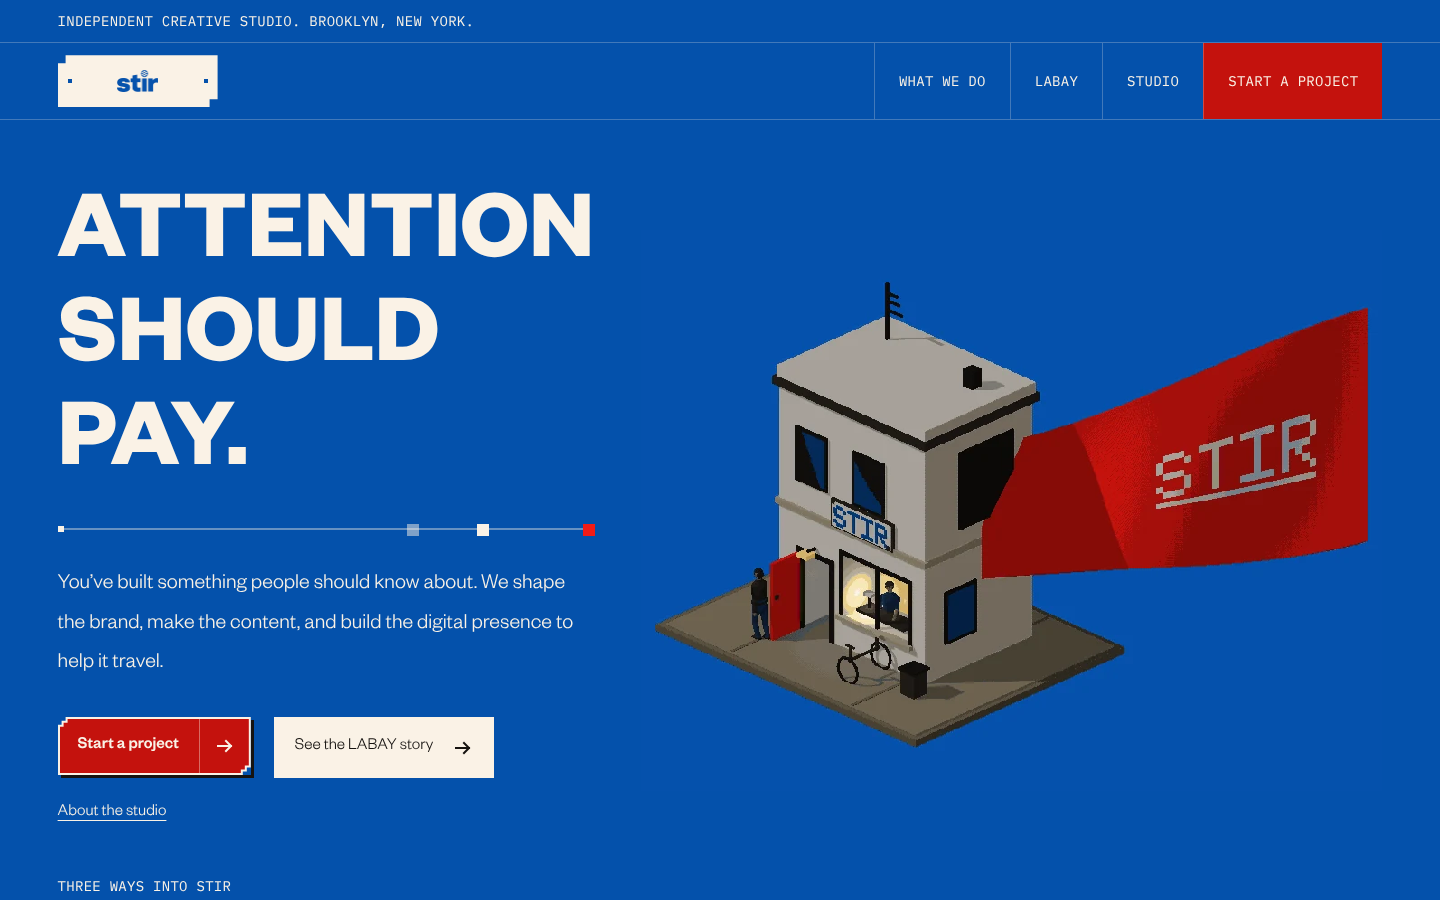
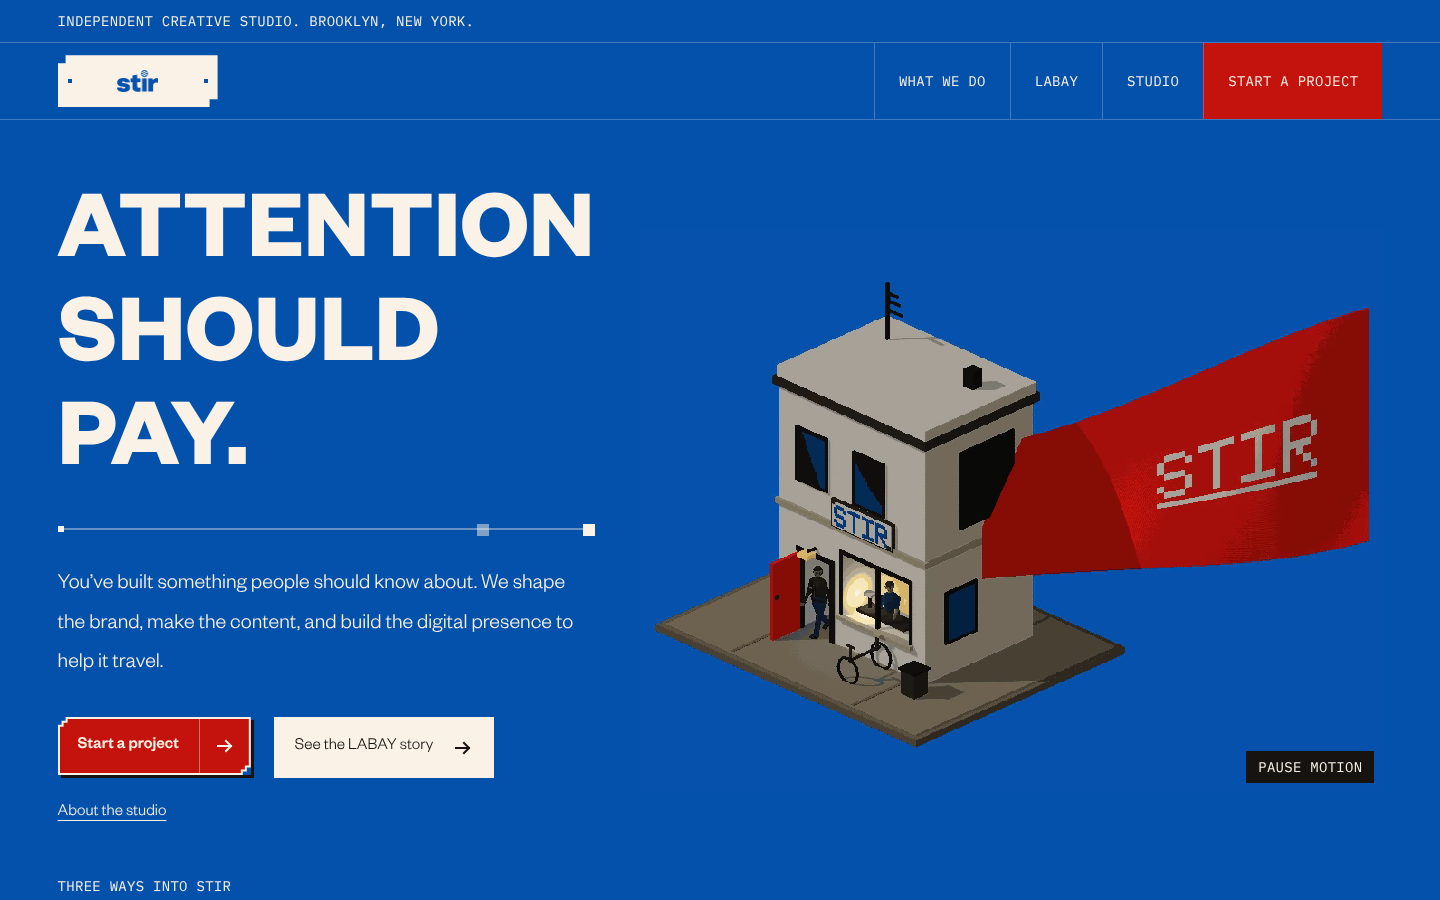
Fix the static hero on Squarespace: the loop's path was relative
The hero loop never played on Squarespace. The footer script picked its
source with a relative path:

    var base = 'assets/scene/hero-' + (narrow ? 'phone' : 'desk');

On the standalone site the assets sit beside the page, so that is
right. Pasted into someone else's document it resolves against THAT
origin — <your-squarespace-domain>/assets/scene/hero-desk.webm — which
404s. The script's own error handler then does exactly what it was
written to do: drops the video and the motion button and leaves the
poster. A still hero, no console error, nothing to notice.

The build rewrites the asset base in the markup but pastes stir.js
verbatim, so the path inside the script was never covered. stir.js now
reads window.STIR_ASSETS and falls back to its relative default; the
header injection declares it, and the hostile preview picks it up as
'../assets/' so it still runs with no network.

Reproduced before the fix, in the preview that exists to catch this:
404 /squarespace/assets/scene/hero-desk.webm, video removed from the
DOM. qa/sqsp.mjs never asked whether the hero moved — it checked fonts,
tokens, bullets and overflow and passed while rendering a dead hero. It
now checks that the loop element survives, attaches, offers its motion
control, and that currentTime actually advances.

Both injections change: the header gains STIR_ASSETS, the footer
carries the new script. Re-paste both.

The two interior scenes are unaffected. They ship as <img> and are
[…]

Changed region(s): [[0.75, 0.3422, 0.9688, 0.6533], [0.5, 0.6222, 0.5938, 0.7156], [0.8438, 0.8089, 0.9688, 0.8711]]

diff --git a/squarespace/_preview-page-about.html b/squarespace/_preview-page-about.html
@@ -34,6 +34,13 @@
 <link rel="preconnect" href="https://fonts.gstatic.com" crossorigin>
 <link href="https://fonts.googleapis.com/css2?family=IBM+Plex+Mono:wght@400;500&display=swap" rel="stylesheet">
 <link rel="stylesheet" href="./_preview.css">
+<script>
+  /* Where the footer script should load the hero loop from. Without
+     this it uses its own relative default, which on this host resolves
+     to <your-domain>/assets/... — a 404, after which the hero quietly
+     drops back to the still image and never moves. */
+  window.STIR_ASSETS = '../assets/';
+</script>
 <style>
   /* Carried inline so the cobalt is painted before the stylesheet
      arrives; otherwise the first frame is a white Squarespace page. */
@@ -263,7 +270,15 @@ document.documentElement.classList.add('js');
     /* Matches the <source media> on the still exactly, so the loop and
        the poster are always the same composition. */
     var narrow = matchMedia('(max-width: 767px)');
-    var base = 'assets/scene/hero-' + (narrow.matches ? 'phone' : 'desk');
+    /* Where the assets live. The standalone site serves them beside the
+       page, so the relative default is right there. Anywhere this script
+       is pasted into someone else's document — the Squarespace build —
+       the page is on a different origin and a relative path resolves
+       against THAT host: it 404s, the error handler drops the video and
+       the hero silently falls back to the still. The host says where the
+       assets are by setting window.STIR_ASSETS before this runs. */
+    var root = window.STIR_ASSETS || 'assets/';
+    var base = root + 'scene/hero-' + (narrow.matches ? 'phone' : 'desk');
 
     var v = document.createElement('video');
     v.className = 'stage-loop';

diff --git a/squarespace/_preview-page-businesses.html b/squarespace/_preview-page-businesses.html
@@ -34,6 +34,13 @@
 <link rel="preconnect" href="https://fonts.gstatic.com" crossorigin>
 <link href="https://fonts.googleapis.com/css2?family=IBM+Plex+Mono:wght@400;500&display=swap" rel="stylesheet">
 <link rel="stylesheet" href="./_preview.css">
+<script>
+  /* Where the footer script should load the hero loop from. Without
+     this it uses its own relative default, which on this host resolves
+     to <your-domain>/assets/... — a 404, after which the hero quietly
+     drops back to the still image and never moves. */
+  window.STIR_ASSETS = '../assets/';
+</script>
 <style>
   /* Carried inline so the cobalt is painted before the stylesheet
      arrives; otherwise the first frame is a white Squarespace page. */
@@ -331,7 +338,15 @@ document.documentElement.classList.add('js');
     /* Matches the <source media> on the still exactly, so the loop and
        the poster are always the same composition. */
     var narrow = matchMedia('(max-width: 767px)');
-    var base = 'assets/scene/hero-' + (narrow.matches ? 'phone' : 'desk');
+    /* Where the assets live. The standalone site serves them beside the
+       page, so the relative default is right there. Anywhere this script
+       is pasted into someone else's document — the Squarespace build —
+       the page is on a different origin and a relative path resolves
+       against THAT host: it 404s, the error handler drops the video and
+       the hero silently falls back to the still. The host says where the
+       assets are by setting window.STIR_ASSETS before this runs. */
+    var root = window.STIR_ASSETS || 'assets/';
+    var base = root + 'scene/hero-' + (narrow.matches ? 'phone' : 'desk');
 
     var v = document.createElement('video');
     v.className = 'stage-loop';

diff --git a/squarespace/_preview-page-collaborate.html b/squarespace/_preview-page-collaborate.html
@@ -34,6 +34,13 @@
 <link rel="preconnect" href="https://fonts.gstatic.com" crossorigin>
 <link href="https://fonts.googleapis.com/css2?family=IBM+Plex+Mono:wght@400;500&display=swap" rel="stylesheet">
 <link rel="stylesheet" href="./_preview.css">
+<script>
+  /* Where the footer script should load the hero loop from. Without
+     this it uses its own relative default, which on this host resolves
+     to <your-domain>/assets/... — a 404, after which the hero quietly
+     drops back to the still image and never moves. */
+  window.STIR_ASSETS = '../assets/';
+</script>
 <style>
   /* Carried inline so the cobalt is painted before the stylesheet
      arrives; otherwise the first frame is a white Squarespace page. */
@@ -242,7 +249,15 @@ document.documentElement.classList.add('js');
     /* Matches the <source media> on the still exactly, so the loop and
        the poster are always the same composition. */
     var narrow = matchMedia('(max-width: 767px)');
-    var base = 'assets/scene/hero-' + (narrow.matches ? 'phone' : 'desk');
+    /* Where the assets live. The standalone site serves them beside the
+       page, so the relative default is right there. Anywhere this script
+       is pasted into someone else's document — the Squarespace build —
+       the page is on a different origin and a relative path resolves
+       against THAT host: it 404s, the error handler drops the video and
+       the hero silently falls back to the still. The host says where the
+       assets are by setting window.STIR_ASSETS before this runs. */
+    var root = window.STIR_ASSETS || 'assets/';
+    var base = root + 'scene/hero-' + (narrow.matches ? 'phone' : 'desk');
 
     var v = document.createElement('video');
     v.className = 'stage-loop';

diff --git a/squarespace/_preview-page-contact.html b/squarespace/_preview-page-contact.html
@@ -34,6 +34,13 @@
 <link rel="preconnect" href="https://fonts.gstatic.com" crossorigin>
 <link href="https://fonts.googleapis.com/css2?family=IBM+Plex+Mono:wght@400;500&display=swap" rel="stylesheet">
 <link rel="stylesheet" href="./_preview.css">
+<script>
+  /* Where the footer script should load the hero loop from. Without
+     this it uses its own relative default, which on this host resolves
+     to <your-domain>/assets/... — a 404, after which the hero quietly
+     drops back to the still image and never moves. */
+  window.STIR_ASSETS = '../assets/';
+</script>
 <style>
   /* Carried inline so the cobalt is painted before the stylesheet
      arrives; otherwise the first frame is a white Squarespace page. */
@@ -314,7 +321,15 @@ document.documentElement.classList.add('js');
     /* Matches the <source media> on the still exactly, so the loop and
        the poster are always the same composition. */
     var narrow = matchMedia('(max-width: 767px)');
-    var base = 'assets/scene/hero-' + (narrow.matches ? 'phone' : 'desk');
+    /* Where the assets live. The standalone site serves them beside the
+       page, so the relative default is right there. Anywhere this script
+       is pasted into someone else's document — the Squarespace build —
+       the page is on a different origin and a relative path resolves
+       against THAT host: it 404s, the error handler drops the video and
+       the hero silently falls back to the still. The host says where the
+       assets are by setting window.STIR_ASSETS before this runs. */
+    var root = window.STIR_ASSETS || 'assets/';
+    var base = root + 'scene/hero-' + (narrow.matches ? 'phone' : 'desk');
 
     var v = document.createElement('video');
     v.className = 'stage-loop';

diff --git a/squarespace/_preview-page-creators.html b/squarespace/_preview-page-creators.html
@@ -34,6 +34,13 @@
 <link rel="preconnect" href="https://fonts.gstatic.com" crossorigin>
 <link href="https://fonts.googleapis.com/css2?family=IBM+Plex+Mono:wght@400;500&display=swap" rel="stylesheet">
 <link rel="stylesheet" href="./_preview.css">
+<script>
+  /* Where the footer script should load the hero loop from. Without
+     this it uses its own relative default, which on this host resolves
+     to <your-domain>/assets/... — a 404, after which the hero quietly
+     drops back to the still image and never moves. */
+  window.STIR_ASSETS = '../assets/';
+</script>
 <style>
   /* Carried inline so the cobalt is painted before the stylesheet
      arrives; otherwise the first frame is a white Squarespace page. */
@@ -247,7 +254,15 @@ document.documentElement.classList.add('js');
     /* Matches the <source media> on the still exactly, so the loop and
        the poster are always the same composition. */
     var narrow = matchMedia('(max-width: 767px)');
-    var base = 'assets/scene/hero-' + (narrow.matches ? 'phone' : 'desk');
+    /* Where the assets live. The standalone site serves them beside the
+       page, so the relative default is right there. Anywhere this script
+       is pasted into someone else's document — the Squarespace build —
+       the page is on a different origin and a relative path resolves
+       against THAT host: it 404s, the error handler drops the video and
+       the hero silently falls back to the still. The host says where the
+       assets are by setting window.STIR_ASSETS before this runs. */
+    var root = window.STIR_ASSETS || 'assets/';
+    var base = root + 'scene/hero-' + (narrow.matches ? 'phone' : 'desk');
 
     var v = document.createElement('video');
     v.className = 'stage-loop';

diff --git a/squarespace/_preview-page-labay.html b/squarespace/_preview-page-labay.html
@@ -34,6 +34,13 @@
 <link rel="preconnect" href="https://fonts.gstatic.com" crossorigin>
 <link href="https://fonts.googleapis.com/css2?family=IBM+Plex+Mono:wght@400;500&display=swap" rel="stylesheet">
 <link rel="stylesheet" href="./_preview.css">
+<script>
+  /* Where the footer script should load the hero loop from. Without
+     this it uses its own relative default, which on this host resolves
+     to <your-domain>/assets/... — a 404, after which the hero quietly
+     drops back to the still image and never moves. */
+  window.STIR_ASSETS = '../assets/';
+</script>
 <style>
   /* Carried inline so the cobalt is painted before the stylesheet
      arrives; otherwise the first frame is a white Squarespace page. */
@@ -433,7 +440,15 @@ document.documentElement.classList.add('js');
     /* Matches the <source media> on the still exactly, so the loop and
        the poster are always the same composition. */
     var narrow = matchMedia('(max-width: 767px)');
-    var base = 'assets/scene/hero-' + (narrow.matches ? 'phone' : 'desk');
+    /* Where the assets live. The standalone site serves them beside the
+       page, so the relative default is right there. Anywhere this script
+       is pasted into someone else's document — the Squarespace build —
+       the page is on a different origin and a relative path resolves
+       against THAT host: it 404s, the error handler drops the video and
+       the hero silently falls back to the still. The host says where the
+       assets are by setting window.STIR_ASSETS before this runs. */
+    var root = window.STIR_ASSETS || 'assets/';
+    var base = root + 'scene/hero-' + (narrow.matches ? 'phone' : 'desk');
 
     var v = document.createElement('video');
     v.className = 'stage-loop';

diff --git a/squarespace/_preview.html b/squarespace/_preview.html
@@ -34,6 +34,13 @@
 <link rel="preconnect" href="https://fonts.gstatic.com" crossorigin>
 <link href="https://fonts.googleapis.com/css2?family=IBM+Plex+Mono:wght@400;500&display=swap" rel="stylesheet">
 <link rel="stylesheet" href="./_preview.css">
+<script>
+  /* Where the footer script should load the hero loop from. Without
+     this it uses its own relative default, which on this host resolves
+     to <your-domain>/assets/... — a 404, after which the hero quietly
+     drops back to the still image and never moves. */
+  window.STIR_ASSETS = '../assets/';
+</script>
 <style>
   /* Carried inline so the cobalt is painted before the stylesheet
      arrives; otherwise the first frame is a white Squarespace page. */
@@ -560,7 +567,15 @@ document.documentElement.classList.add('js');
     /* Matches the <source media> on the still exactly, so the loop and
        the poster are always the same composition. */
     var narrow = matchMedia('(max-width: 767px)');
-    var base = 'assets/scene/hero-' + (narrow.matches ? 'phone' : 'desk');
+    /* Where the assets live. The standalone site serves them beside the
+       page, so the relative default is right there. Anywhere this script
+       is pasted into someone else's document — the Squarespace build —
+       the page is on a different origin and a relative path resolves
+       against THAT host: it 404s, the error handler drops the video and
+       the hero silently falls back to the still. The host says where the
+       assets are by setting window.STIR_ASSETS before this runs. */
+    var root = window.STIR_ASSETS || 'assets/';
+    var base = root + 'scene/hero-' + (narrow.matches ? 'phone' : 'desk');
 
     var v = document.createElement('video');
     v.className = 'stage-loop';

diff --git a/squarespace/ready/02-code-injection-footer.html b/squarespace/ready/02-code-injection-footer.html
@@ -102,7 +102,15 @@ document.documentElement.classList.add('js');
     /* Matches the <source media> on the still exactly, so the loop and
        the poster are always the same composition. */
     var narrow = matchMedia('(max-width: 767px)');
-    var base = 'assets/scene/hero-' + (narrow.matches ? 'phone' : 'desk');
+    /* Where the assets live. The standalone site serves them beside the
+       page, so the relative default is right there. Anywhere this script
+       is pasted into someone else's document — the Squarespace build —
+       the page is on a different origin and a relative path resolves
+       against THAT host: it 404s, the error handler drops the video and
+       the hero silently falls back to the still. The host says where the
+       assets are by setting window.STIR_ASSETS before this runs. */
+    var root = window.STIR_ASSETS || 'assets/';
+    var base = root + 'scene/hero-' + (narrow.matches ? 'phone' : 'desk');
 
     var v = document.createElement('video');
     v.className = 'stage-loop';

diff --git a/assets/stir.js b/assets/stir.js
@@ -99,7 +99,15 @@ document.documentElement.classList.add('js');
     /* Matches the <source media> on the still exactly, so the loop and
        the poster are always the same composition. */
     var narrow = matchMedia('(max-width: 767px)');
-    var base = 'assets/scene/hero-' + (narrow.matches ? 'phone' : 'desk');
+    /* Where the assets live. The standalone site serves them beside the
+       page, so the relative default is right there. Anywhere this script
+       is pasted into someone else's document — the Squarespace build —
+       the page is on a different origin and a relative path resolves
+       against THAT host: it 404s, the error handler drops the video and
+       the hero silently falls back to the still. The host says where the
+       assets are by setting window.STIR_ASSETS before this runs. */
+    var root = window.STIR_ASSETS || 'assets/';
+    var base = root + 'scene/hero-' + (narrow.matches ? 'phone' : 'desk');
 
     var v = document.createElement('video');
     v.className = 'stage-loop';

diff --git a/squarespace/ready/01-code-injection-header.html b/squarespace/ready/01-code-injection-header.html
@@ -7,6 +7,13 @@
 <link rel="preconnect" href="https://fonts.gstatic.com" crossorigin>
 <link href="https://fonts.googleapis.com/css2?family=IBM+Plex+Mono:wght@400;500&display=swap" rel="stylesheet">
 <link rel="stylesheet" href="https://stirnyc.netlify.app/assets/stir-squarespace.26e3f464e6.css">
+<script>
+  /* Where the footer script should load the hero loop from. Without
+     this it uses its own relative default, which on this host resolves
+     to <your-domain>/assets/... — a 404, after which the hero quietly
+     drops back to the still image and never moves. */
+  window.STIR_ASSETS = 'https://stirnyc.netlify.app/assets/';
+</script>
 <style>
   /* Carried inline so the cobalt is painted before the stylesheet
      arrives; otherwise the first frame is a white Squarespace page. */

diff --git a/scripts/build-squarespace.py b/scripts/build-squarespace.py
@@ -240,6 +240,13 @@ def main():
 <link rel="preconnect" href="https://fonts.gstatic.com" crossorigin>
 <link href="https://fonts.googleapis.com/css2?family=IBM+Plex+Mono:wght@400;500&display=swap" rel="stylesheet">
 <link rel="stylesheet" href="{BASE}{sheet}">
+<script>
+  /* Where the footer script should load the hero loop from. Without
+     this it uses its own relative default, which on this host resolves
+     to <your-domain>/assets/... — a 404, after which the hero quietly
+     drops back to the still image and never moves. */
+  window.STIR_ASSETS = '{BASE}';
+</script>
 <style>
   /* Carried inline so the cobalt is painted before the stylesheet
      arrives; otherwise the first frame is a white Squarespace page. */
